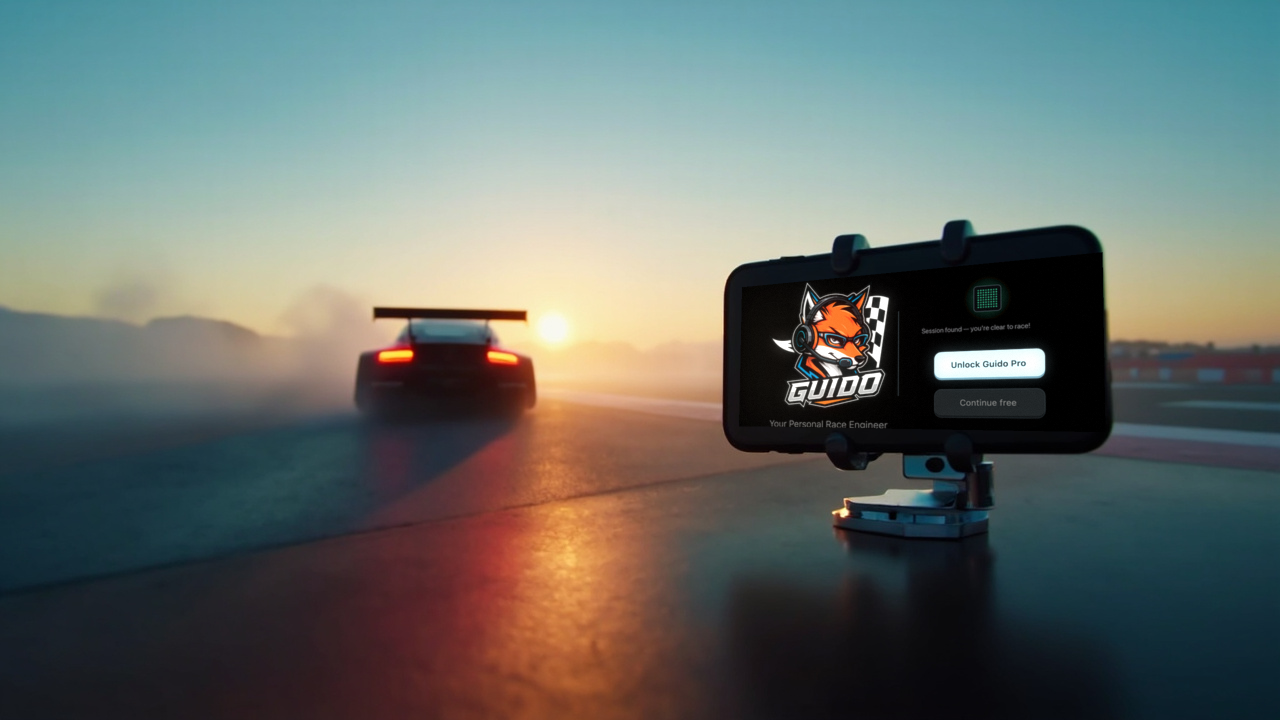
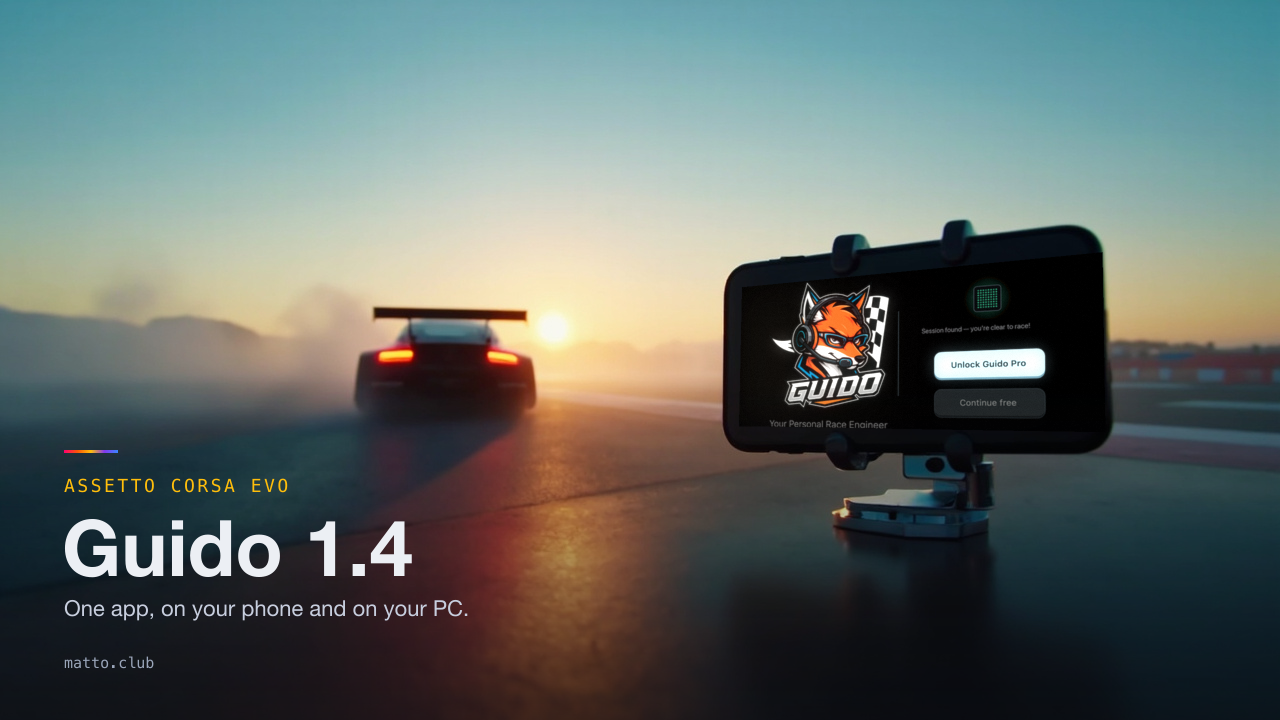
mercato: Guido 1.4 post, three channels, two cards
Instagram joins the thread and the LinkedIn copy. Its caption follows
the marketing profile: short, five tags, link in bio, 3:4 image. The
card keeps the scene and puts the announcement on the left; the
Instagram card stacks the same scene over the brand panel.

Nothing in the copy invents a short form or a number.

diff --git a/mercato/drafts/guido-1-4-one-app.md b/mercato/drafts/guido-1-4-one-app.md
@@ -3,7 +3,10 @@ title: "Guido 1.4: Assetto Corsa EVO, and one app everywhere"
 platforms:
   - twitter
   - linkedin
-image: https://github.com/clubmatto/vetrina/blob/main/assets/posts/guido-1-4-card.png
+  - instagram
+images:
+  - https://github.com/clubmatto/vetrina/blob/main/assets/posts/guido-1-4-card.png
+  - https://github.com/clubmatto/vetrina/blob/main/assets/posts/guido-1-4-instagram.png
 publish_date: 2026-11-20
 topics:
   - guido
@@ -46,3 +49,17 @@ The structure got simpler too. PC sims keep their telemetry in shared memory, wh
 Closed beta and free, on Android and TestFlight. If you race EVO, you're exactly who we want testing this.
 
 Check it out: https://matto.club/guido
+
+## Instagram
+
+🏎 Assetto Corsa EVO is on Guido 🏎
+
+EVO joins the beta with the full dashboard: speed, gear, revs, tyre temperatures, fuel and laps, on a spare screen while you drive.
+
+Guido 1.4 is one app: the same Guido now runs on your PC, carrying Le Mans Ultimate and the Assetto Corsa games to your phone. One installer, one version.
+
+EVO is the newest sim we read, so its numbers have the least testing behind them. If something disagrees with the game's HUD, tell us.
+
+Free during the beta, on Android and TestFlight. Link in bio.
+
+#assettocorsaevo #assettocorsa #simracing #lemansultimate #guido
